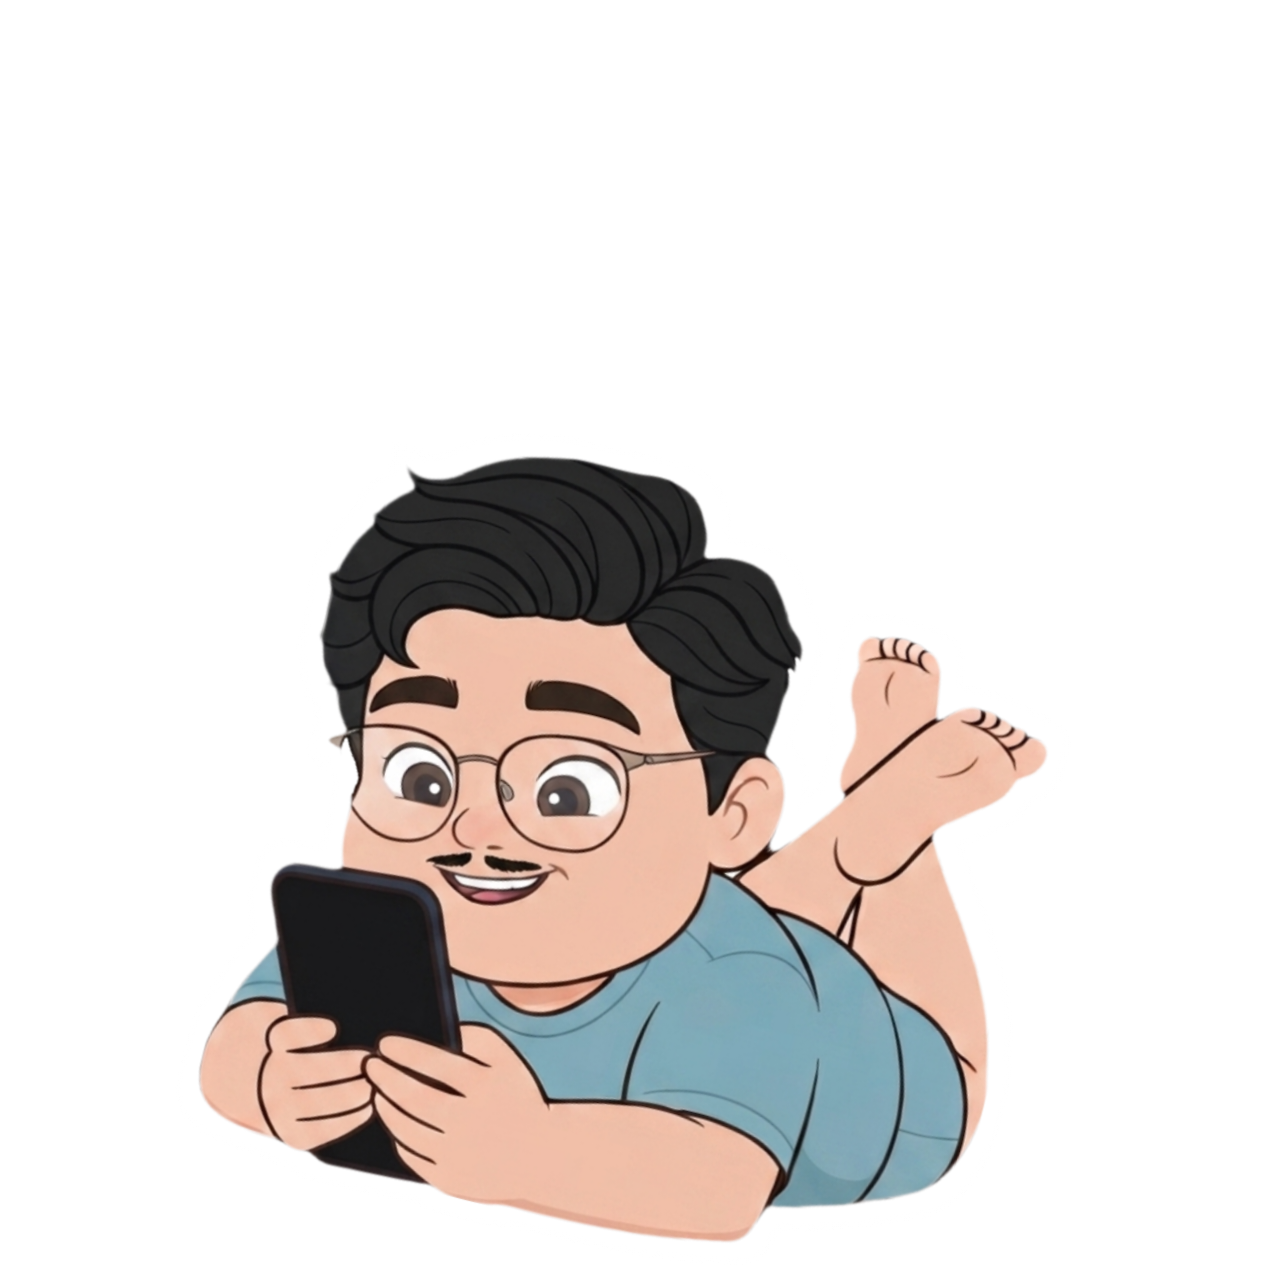
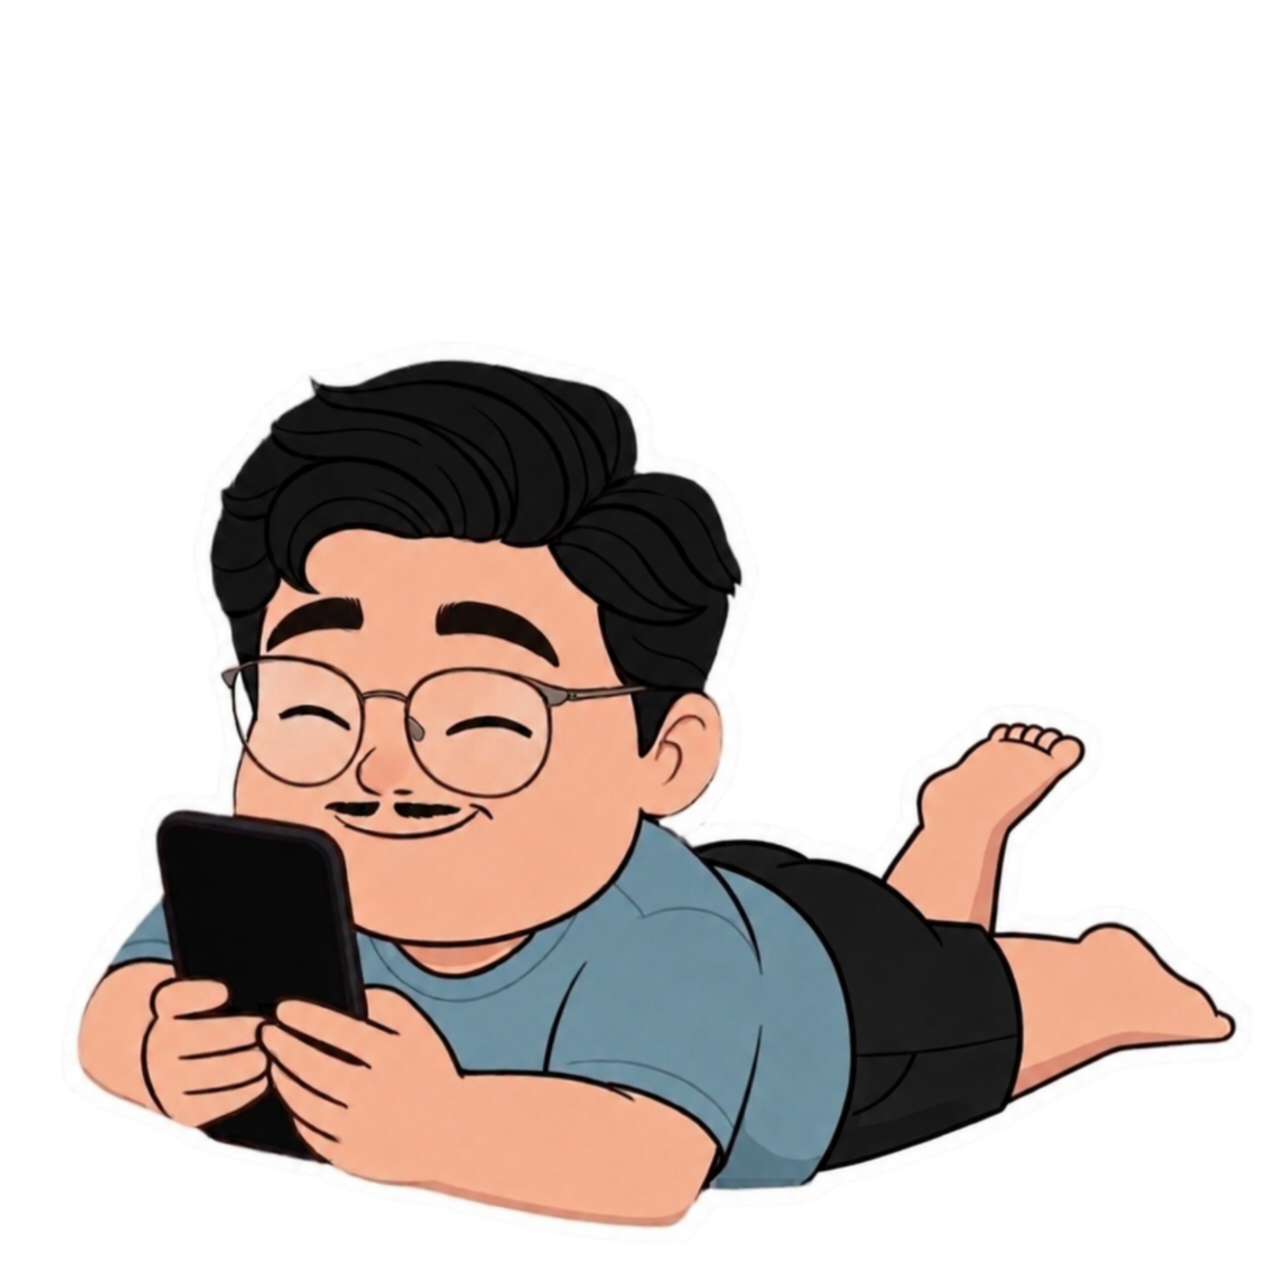
Add files via upload

diff --git a/index.html b/index.html
@@ -25,9 +25,9 @@
         .top-left-nav { position: absolute; top: 20px; left: 20px; }
         .top-right-nav { position: absolute; top: 20px; right: 20px; }
         
-        /* Logo Custom diperbesar 5% dari 50px menjadi 52.5px */
+        /* Logo Custom */
         .bottom-left-logo { 
-            position: absolute; bottom: 20px; left: 20px; width: 52.5px; height: 52.5px; 
+            position: absolute; bottom: 20px; left: 20px; width: 50px; height: 50px; 
             display: flex; align-items: center; justify-content: center;
             opacity: 0; transform: scale(0); animation: fadeInScale 0.8s cubic-bezier(0.175, 0.885, 0.32, 1.275) forwards; animation-delay: 1s;
         }
@@ -41,8 +41,7 @@
         .chat-container { display: flex; justify-content: center; align-items: center; gap: 40px; margin-bottom: 40px; position: relative; width: 100%; max-width: 400px; }
         .character-wrapper { position: relative; display: flex; flex-direction: column; align-items: center; }
         
-        /* Gambar diperbesar 10% dari 120px menjadi 132px */
-        .person-img { width: 132px; height: auto; transition: transform 0.4s cubic-bezier(0.175, 0.885, 0.32, 1.275); }
+        .person-img { width: 120px; height: auto; transition: transform 0.4s cubic-bezier(0.175, 0.885, 0.32, 1.275); }
         
         .float-anim { animation: float 4s ease-in-out infinite; }
         @keyframes float { 0%, 100% { transform: translateY(0); } 50% { transform: translateY(-10px); } }
@@ -77,7 +76,6 @@
         <a href="https://ipix.my.id" class="pill-link">ipix.my.id</a>
     </div>
 
-    <!-- Logo Lokal -->
     <div class="bottom-left-logo">
         <img src="logo.png" alt="Logo">
     </div>
@@ -85,14 +83,12 @@
     <div class="chat-container">
         <div class="character-wrapper">
             <div class="deco" id="bubbleLeft">...</div>
-            <!-- Gambar Lokal Kiri diperbesar -->
-            <img src="pemanggil_kiri.png" id="imgLeft" class="person-img float-anim" alt="Orang 1">
+            <img src="pemanggil_kiri.png" id="imgLeft" class="person-img float-anim" alt="Orang Kiri">
         </div>
         
         <div class="character-wrapper">
             <div class="deco" id="bubbleRight">...</div>
-            <!-- Gambar Lokal Kanan diperbesar -->
-            <img src="pemanggil_kanan.png" id="imgRight" class="person-img float-anim" alt="Orang 2">
+            <img src="pemanggil_kanan.png" id="imgRight" class="person-img float-anim" alt="Orang Kanan">
         </div>
     </div>
 
@@ -112,6 +108,12 @@
         
         let step = 0;
 
+        // Daftar aset gambar Anda di folder
+        const daftarFoto = {
+            kiri: ["pemanggil_kiri.png", "pemanggil_kiri_2.png"],
+            kanan: ["pemanggil_kanan.png", "pemanggil_kanan_2.png"]
+        };
+
         function animateCharacter(activeSide) {
             if(activeSide === 'left') {
                 imgLeft.classList.add('active-move');
@@ -129,31 +131,36 @@
         function updateConversation() {
             switch(step) {
                 case 0:
-                    bLeft.innerText = "Halo";
+                    // 1. KIRI (Foto 1) bergerak & bicara
+                    imgLeft.src = daftarFoto.kiri[0];
+                    bLeft.innerText = "Halo!";
                     bLeft.style.opacity = 1; bRight.style.opacity = 0;
                     animateCharacter('left');
                     break;
                 case 1:
-                    bRight.innerText = "Apa kabar ?";
-                    bRight.style.opacity = 1; bLeft.style.opacity = 0;
-                    animateCharacter('right');
-                    break;
-                case 2:
-                    bLeft.innerText = "Baik";
+                    // 2. KIRI BERUBAH (Foto 2) bergerak & bicara
+                    imgLeft.src = daftarFoto.kiri[1];
+                    bLeft.innerText = "Ada yang bisa kami bantu?";
                     bLeft.style.opacity = 1; bRight.style.opacity = 0;
                     animateCharacter('left');
                     break;
-                case 3:
-                    bLeft.innerText = "Kamu apa kabar ?";
-                    animateCharacter('left');
+                case 2:
+                    // 3. KANAN (Foto 1) bergerak & bicara
+                    imgRight.src = daftarFoto.kanan[0];
+                    bRight.innerText = "Hai juga!";
+                    bRight.style.opacity = 1; bLeft.style.opacity = 0;
+                    animateCharacter('right');
                     break;
-                case 4:
-                    bRight.innerText = "Baik juga";
+                case 3:
+                    // 4. KANAN BERUBAH (Foto 2) bergerak & bicara
+                    imgRight.src = daftarFoto.kanan[1];
+                    bRight.innerText = "Kami siap melayani kamu.";
                     bRight.style.opacity = 1; bLeft.style.opacity = 0;
                     animateCharacter('right');
                     break;
             }
-            step = (step + 1) % 5;
+            // Mengulang urutan dari step 0 sampai 3 (total 4 langkah)
+            step = (step + 1) % 4;
         }
 
         setInterval(updateConversation, 2000);